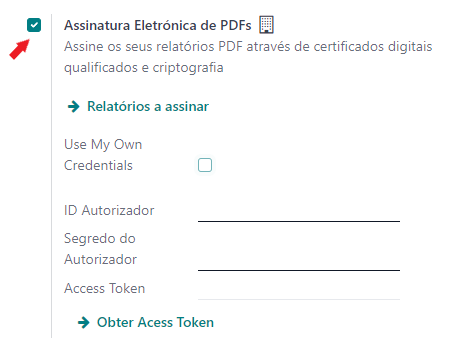
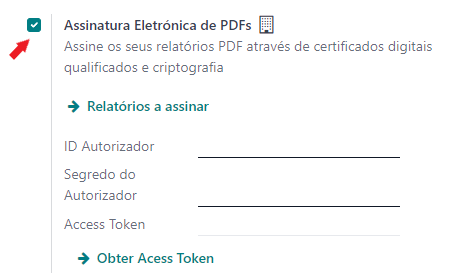
[update] pdf_sign, no more client credentials

diff --git a/content/applications/invoicing/pdf_signing.rst b/content/applications/invoicing/pdf_signing.rst
@@ -100,26 +100,7 @@ Procure a secção **Portugal**, ative a **Assinatura Eletrónica de PDFs** e pr
 .. image:: pdf_signing/v17_pdfSignConfiguration01.png
    :align: center
 
-.. important::
-    Se não fez a compra do seu certificado pela Exo Software tem de selecionar o campo **Use My Own Credentials** e
-    inserir a informação que recebeu para os seguintes campos
-
-    - **ID Cliente** e **Segredo do Cliente**, são facultados pela DigitalSign quando `regista o primeiro autenticador <gapi.digitalsign.pt/>`_
-
-    .. image:: pdf_signing/v17_pdfSignConfiguration02.png
-       :align: center
-
-    - **URI de Redirecionamento**, é o seu **endereço do servidor** acrescido de **/digitalsign** por exemplo *https://exosoftware.pt/digitalsign*
-
-    .. image:: pdf_signing/v17_pdfSignConfiguration03.png
-       :align: center
-
-    .. danger::
-        Este URI tem de ser comunicado à DigitalSign para que seja devidamente registado nos servidores deles
-
-O processo a partir deste ponto é comum
-
-- **ID Autorizador** e **Segredo do Autorizador**, estes dados podem ser obtidos no `seu backend DigitalSign <https://gapi.digitalsign.pt/login>`_
+Insira o **ID Autorizador** e **Segredo do Autorizador**, estes dados podem ser obtidos no `seu backend DigitalSign <https://gapi.digitalsign.pt/login>`_
 
 .. note::
     Aceda ao menu **Certificates** e carregue no botão **Edit** da sua conta
@@ -150,7 +131,7 @@ O processo a partir deste ponto é comum
     .. image:: pdf_signing/v17_pdfSignConfiguration10.png
        :align: center
 
-- **Access Token**, com os dados anteriores preenchidos carregue no botão **Obter Access Token** para o receber, vai precisar de fazer login para confirmar a sua identidade
+Insira o **Access Token**, com os dados anteriores preenchidos carregue no botão **Obter Access Token** para o receber, vai precisar de fazer login para confirmar a sua identidade
 
 .. image:: pdf_signing/v17_pdfSignConfiguration04.png
    :align: center
